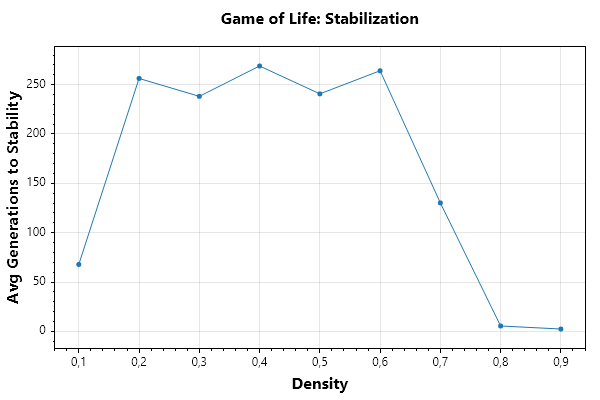
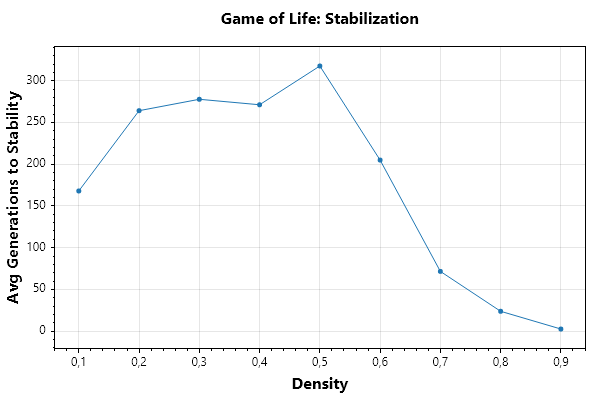
b8 Копейкин Иван

diff --git a/Life/Program.cs b/Life/Program.cs
@@ -160,17 +160,24 @@ namespace cli_life
                         var queue = new Queue<(int, int)>();
                         queue.Enqueue((x, y));
                         visited[x, y] = true;
+
                         while (queue.Count > 0)
                         {
                             var (cx, cy) = queue.Dequeue();
                             component.Add((cx, cy));
+
                             for (int dx = -1; dx <= 1; dx++)
                             {
                                 for (int dy = -1; dy <= 1; dy++)
                                 {
                                     if (dx == 0 && dy == 0) continue;
-                                    int nx = (cx + dx + Columns) % Columns;
-                                    int ny = (cy + dy + Rows) % Rows;
+
+                                    int nx = cx + dx;
+                                    int ny = cy + dy;
+
+                                    if (nx < 0 || nx >= Columns || ny < 0 || ny >= Rows)
+                                        continue;
+
                                     if (Cells[nx, ny].IsAlive && !visited[nx, ny])
                                     {
                                         visited[nx, ny] = true;
@@ -179,10 +186,12 @@ namespace cli_life
                                 }
                             }
                         }
+
                         components.Add(component);
                     }
                 }
             }
+
             return components;
         }
     }
@@ -246,28 +255,30 @@ namespace cli_life
 
     public static class StabilityAnalyzer
     {
+        private static string Serialize(Board board)
+        {
+            var sb = new StringBuilder();
+            for (int y = 0; y < board.Rows; y++)
+                for (int x = 0; x < board.Columns; x++)
+                    sb.Append(board.Cells[x, y].IsAlive ? '1' : '0');
+            return sb.ToString();
+        }
+
         public static int GenerationsToStability(Board board, int maxGen = 500, int stableWindow = 10)
         {
-            int prevCount = board.CountAlive();
-            int stableFor = 0;
+            var seen = new Dictionary<string, int>();
 
-            for (int gen = 1; gen <= maxGen; gen++)
+            for (int gen = 0; gen <= maxGen; gen++)
             {
-                board.Advance();
-                int count = board.CountAlive();
+                string state = Serialize(board);
 
-                if (count == prevCount)
-                {
-                    stableFor++;
-                    if (stableFor >= stableWindow)
-                        return gen - stableWindow + 1;
-                }
-                else
-                {
-                    stableFor = 0;
-                    prevCount = count;
-                }
+                if (seen.ContainsKey(state))
+                    return gen;
+
+                seen[state] = gen;
+                board.Advance();
             }
+
             return -1;
         }
 
@@ -276,17 +287,26 @@ namespace cli_life
             double[] densities, int runs = 20, int maxGen = 500, int stableWindow = 10)
         {
             var result = new Dictionary<double, double>();
+
             foreach (double density in densities)
             {
                 int total = 0, counted = 0;
+
                 for (int i = 0; i < runs; i++)
                 {
                     var b = new Board(width, height, cellSize, density);
                     int gen = GenerationsToStability(b, maxGen, stableWindow);
-                    if (gen >= 0) { total += gen; counted++; }
+
+                    if (gen >= 0)
+                    {
+                        total += gen;
+                        counted++;
+                    }
                 }
+
                 result[density] = counted > 0 ? (double)total / counted : maxGen;
             }
+
             return result;
         }
     }
